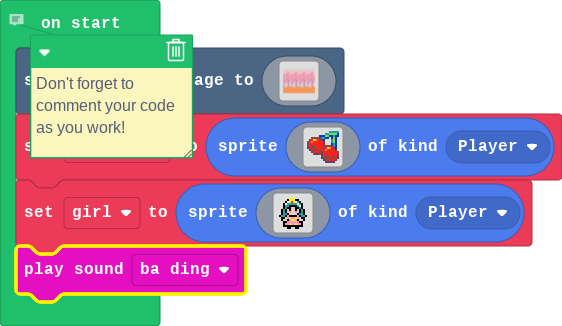
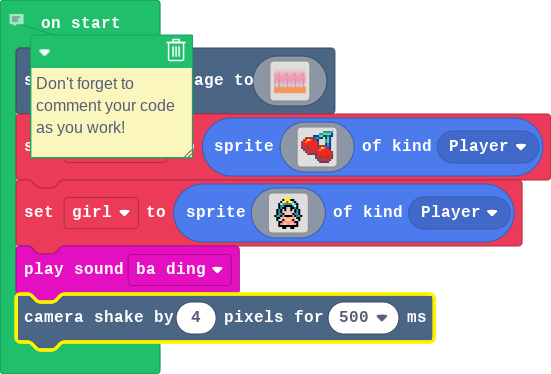
camera shake

diff --git a/main.ts b/main.ts
@@ -158,3 +158,4 @@ let girl = sprites.create(img`
     . . . . . f f . . f f . . . . . 
     `, SpriteKind.Player)
 music.baDing.play()
+scene.cameraShake(4, 500)
